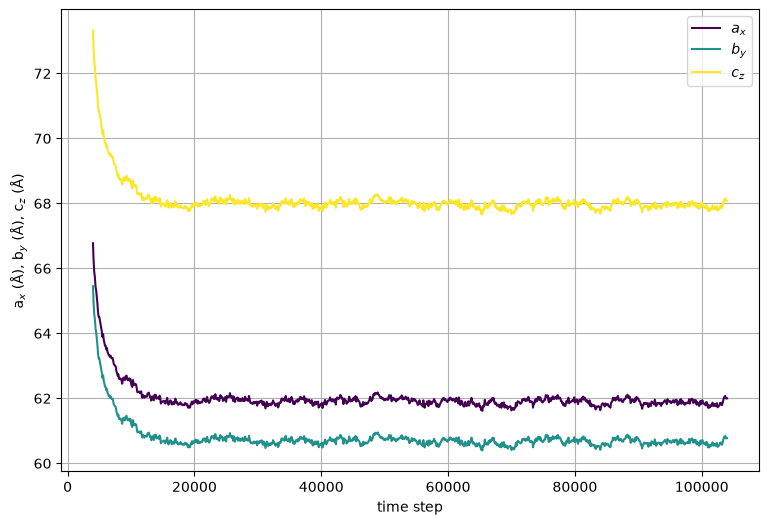
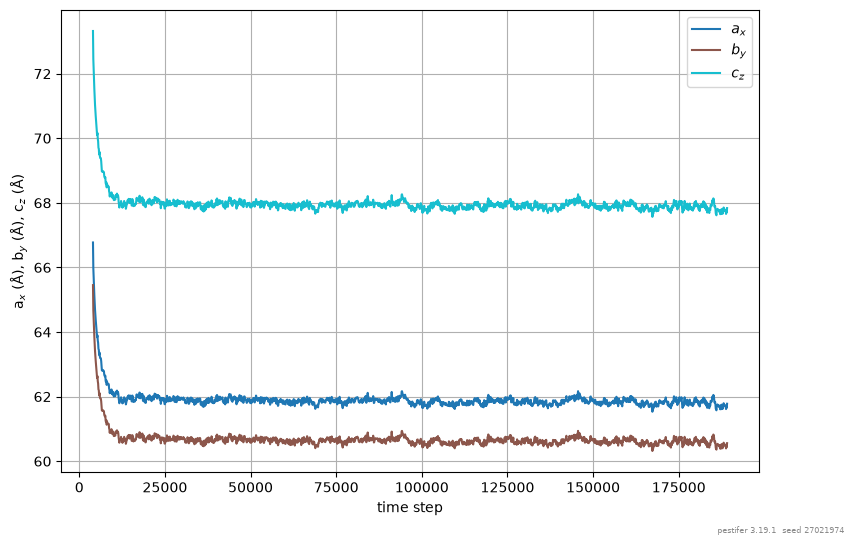
docs: regenerate example 24's figures from a run that actually converged
The density-convergence figure on the page was harvested from a build that hit
the max_steps ceiling: it runs out at ~104000 steps with no convergence marker,
while its caption describes a run that "stops once the drift in that window
falls below tolerance."  The caption and the plot disagreed.

Replaced with the median replica of the three-replica re-run at max_steps
250000 (seed 27021974): converged at step 189160, drift +8.92e-04, rho 0.8574
g/cc.  The companion cell-dimension figure comes from the same build, so the
two agree on run length; the previous pair did not.

Nothing that feeds either figure changed between that build's commit
(c283203a) and here except the max_steps line itself -- mdplot, the plotting
code in density_equilibrate, and util/density_convergence are all untouched --
so these are what a build at HEAD produces, down to the current mdplot palette
the old figures predate.

Caption now says why this example raises the ceiling.

Claude-Session: https://claude.ai/code/session_01SHwJb939xDUd46enEgXisF

Changed region(s): [[0.0, 0.0, 1.0, 0.9752], [0.8438, 0.9143, 1.0, 1.0]]

diff --git a/docs/source/examples/24/subtilisin-acetone.rst b/docs/source/examples/24/subtilisin-acetone.rst
@@ -26,7 +26,7 @@ The rest of the build is identical to the DMSO example: the equilibrated acetone
 
 .. figure:: density-convergence.png
 
-    Density of the acetone-solvated system through equilibration, as reported by the self-terminating ``density_equilibrate`` task.  The shaded regions are the discarded burn-in and the trailing window the convergence test is evaluated over; the run stops once the drift in that window falls below tolerance, so the stopping point is measured rather than chosen in advance.
+    Density of the acetone-solvated system through equilibration, as reported by the self-terminating ``density_equilibrate`` task.  The shaded regions are the discarded burn-in and the trailing window the convergence test is evaluated over; the run stops once the drift in that window falls below tolerance, so the stopping point is measured rather than chosen in advance.  Acetone decorrelates slowly enough that this takes longer than the default ``max_steps`` ceiling allows, which is why the config above raises it -- the one example here that needs to.
 
 .. raw:: html
 
